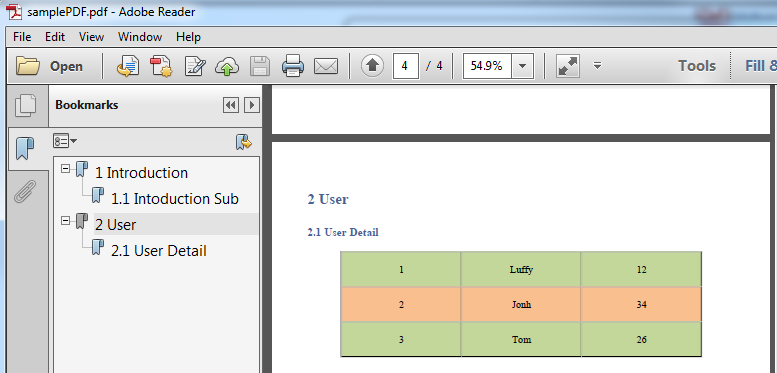
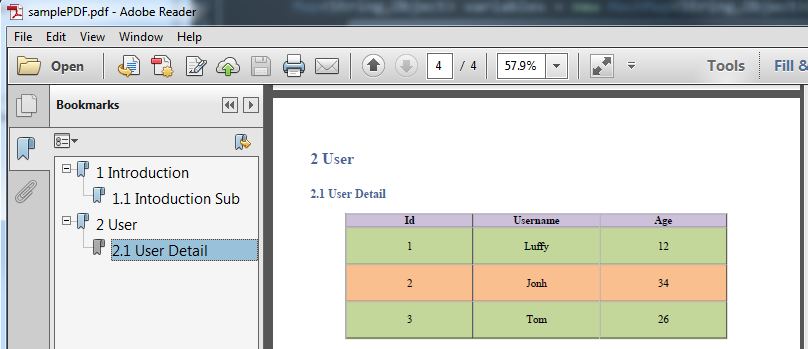
Add table head

diff --git a/freemarker_template.html b/freemarker_template.html
@@ -86,24 +86,26 @@ This is the example of PDF Generator
 
 <h1 ><a  class="head1" name="_user" >2 User</a></h1>
 <h2><a name="_user_detail" class="head2">2.1 User Detail</a></h2>
-
 <table border="1"  cellspacing="0" cellpadding="0" align="center"> 
-<#list 1..users?size as i>
-	<#if i%2==0> 
-  		<tr style="background:#FABF8F">
-    <#else>
-        <tr style="background:#C4D79B">
-    </#if>
-   	
-		<td width="189" align="center"><p align="center">${users[i-1].id}</p></td> 
-        <td width="189" align="center"><p align="center">${users[i-1].username}</p></td> 
-        <td width="189" align="center"><p align="center">${users[i-1].age}</p></td> 
-      
-	</tr>
-</#list>
+	<thead>
+      <tr style="background:#CCC0DA">
+         <th align="center">Id</th>
+         <th align="center">Username</th>
+         <th align="center">Age</th>
+      </tr>
+     </thead>
+    <#list 1..users?size as i>
+        <#if i%2==0> 
+            <tr style="background:#FABF8F">
+        <#else>
+            <tr style="background:#C4D79B">
+        </#if>
+            <td width="189" align="center"><p align="center">${users[i-1].id}</p></td> 
+            <td width="189" align="center"><p align="center">${users[i-1].username}</p></td> 
+            <td width="189" align="center"><p align="center">${users[i-1].age}</p></td>    
+        </tr>
+    </#list>
 </table>
-
-
 
  
 </body>

diff --git a/README.md b/README.md
@@ -47,16 +47,23 @@ PdfGenerator.generate(htmlStr, new FileOutputStream(outputFilePath));
 You can easily display the data like HTML + CSS, the users variable is from variables.put("users",users) in the example
 ```
 <table border="1"  cellspacing="0" cellpadding="0" align="center"> 
-	<#list 1..users?size as i>
-		<#if i%2==0> 
-	  		<tr style="background:#FABF8F">
-	    <#else>
-	        <tr style="background:#C4D79B">
-	    </#if>
-			<td width="189" align="center"><p align="center">${users[i-1].id}</p></td> 
-	        <td width="189" align="center"><p align="center">${users[i-1].username}</p></td> 
-	        <td width="189" align="center"><p align="center">${users[i-1].age}</p></td> 
-		</tr>
-	</#list>
+	<thead>
+      <tr style="background:#CCC0DA">
+         <th align="center">Id</th>
+         <th align="center">Username</th>
+         <th align="center">Age</th>
+      </tr>
+     </thead>
+    <#list 1..users?size as i>
+        <#if i%2==0> 
+            <tr style="background:#FABF8F">
+        <#else>
+            <tr style="background:#C4D79B">
+        </#if>
+            <td width="189" align="center"><p align="center">${users[i-1].id}</p></td> 
+            <td width="189" align="center"><p align="center">${users[i-1].username}</p></td> 
+            <td width="189" align="center"><p align="center">${users[i-1].age}</p></td>    
+        </tr>
+    </#list>
 </table>
 ```
